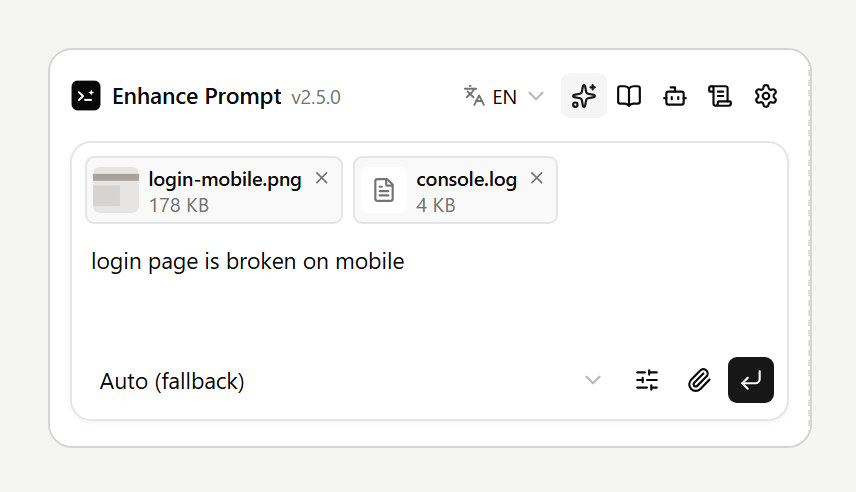
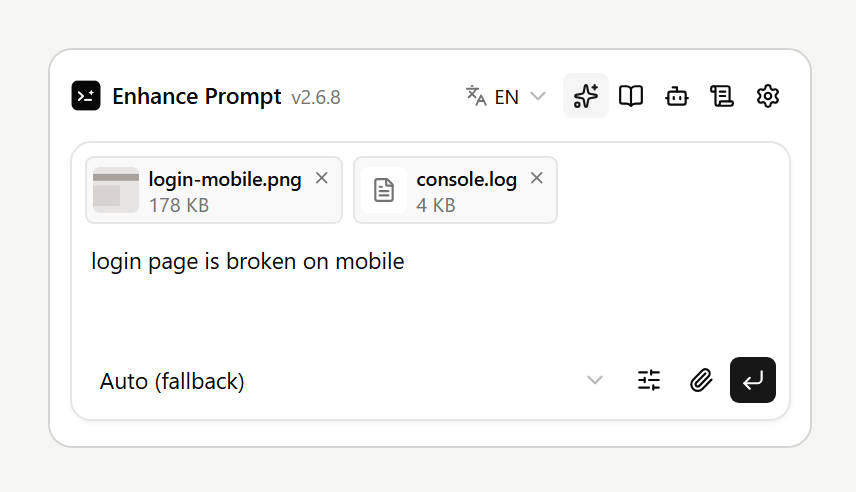
Every picture drawn again from the panel as it is in 2.6.8
The cover, the listing's screenshots, the README's features and the guide's
pictures were from 2.5.0. All 21 are drawn again with
`node scripts/make-listing.mjs`; a second run gives the same files, except
the two taken in the middle of a run.

The listing has four screenshots instead of three: `3-rules.jpg` is new (the
Rules tab next to the access switches) and the languages moved to
`4-languages.jpg`. The manifest lists them, with descriptions of what each
now shows (at most 160 characters, as Orca's validator asks). Nothing Orca
compares for an update's approval changes.

The descriptions of the pictures in the three READMEs and in the guide say
what the new pictures show.

diff --git a/README.md b/README.md
@@ -40,7 +40,7 @@ Write what you want in a sentence. Enhance rewrites it into a prompt with a goal
 
 </td>
 <td width="50%">
-  <a href="docs/getting-started.md"><img src="docs/assets/readme-features/enhance-and-send.jpg" alt="A screenshot and a log attached to a request, and the enhanced prompt with Send" width="100%" /></a>
+  <a href="docs/getting-started.md"><img src="docs/assets/readme-features/enhance-and-send.jpg" alt="A one-line request and the enhanced prompt it became, with the terminal to send it to" width="100%" /></a>
 </td>
 </tr>
 <tr>
@@ -54,7 +54,7 @@ Five context levels, from the prompt alone to your agent rules, stack, git chang
 
 </td>
 <td width="50%">
-  <a href="docs/context-levels.md"><img src="docs/assets/readme-features/project-context.jpg" alt="The options with the context list: workspace, AGENTS.md, stack and commands, a relevant file" width="100%" /></a>
+  <a href="docs/context-levels.md"><img src="docs/assets/readme-features/project-context.jpg" alt="The options: style, context level, output language and structure, then every item of context sent, from the workspace and AGENTS.md to git changes and two relevant files" width="100%" /></a>
 </td>
 </tr>
 <tr>
@@ -68,7 +68,7 @@ Claude Code, Codex and Gemini CLI are detected on your machine and added in one 
 
 </td>
 <td width="50%">
-  <a href="docs/models.md#subscription-clis"><img src="docs/assets/readme-features/subscription.jpg" alt="Use your subscription: Claude Code and Codex CLI added without an API key" width="100%" /></a>
+  <a href="docs/models.md#subscription-clis"><img src="docs/assets/readme-features/subscription.jpg" alt="The Models tab: Claude Code on your subscription, an OpenAI key, and Codex found on this machine, to add without an API key" width="100%" /></a>
 </td>
 </tr>
 <tr>
@@ -82,7 +82,7 @@ Add OpenAI, Anthropic, OpenRouter, Gemini, Groq, DeepSeek, Mistral, Ollama, LM S
 
 </td>
 <td width="50%">
-  <a href="docs/models.md"><img src="docs/assets/readme-features/models-fallback.jpg" alt="The Models section with fallback, in the dark theme" width="100%" /></a>
+  <a href="docs/models.md"><img src="docs/assets/readme-features/models-fallback.jpg" alt="A result in the dark theme that fell back to the next model after the first one failed" width="100%" /></a>
 </td>
 </tr>
 <tr>

diff --git a/docs/readme/README.zh-CN.md b/docs/readme/README.zh-CN.md
@@ -38,7 +38,7 @@
 
 </td>
 <td width="50%">
-  <img src="../assets/readme-features/enhance-and-send.jpg" alt="优化后的提示词与发送、复制、继续优化按钮" width="100%" />
+  <img src="../assets/readme-features/enhance-and-send.jpg" alt="一句话的请求和由它优化出的提示词，以及要发送到的终端" width="100%" />
 </td>
 </tr>
 <tr>
@@ -52,7 +52,7 @@
 
 </td>
 <td width="50%">
-  <img src="../assets/readme-features/project-context.jpg" alt="已用上下文列表" width="100%" />
+  <img src="../assets/readme-features/project-context.jpg" alt="选项：风格、上下文级别、输出语言和结构，以及发送的每一项上下文，从工作区和 AGENTS.md 到 git 更改和两个相关文件" width="100%" />
 </td>
 </tr>
 <tr>
@@ -66,7 +66,7 @@
 
 </td>
 <td width="50%">
-  <img src="../assets/readme-features/subscription.jpg" alt="无需 API key 添加 Claude Code 和 Codex CLI" width="100%" />
+  <img src="../assets/readme-features/subscription.jpg" alt="模型标签页：使用你的订阅的 Claude Code、一个 OpenAI key，以及在本机找到的 Codex，无需 API key 即可添加" width="100%" />
 </td>
 </tr>
 <tr>
@@ -80,7 +80,7 @@ OpenAI、Anthropic、OpenRouter、Gemini、Groq、DeepSeek、Mistral、Ollama、
 
 </td>
 <td width="50%">
-  <img src="../assets/readme-features/models-fallback.jpg" alt="回退设置和自动优化模式" width="100%" />
+  <img src="../assets/readme-features/models-fallback.jpg" alt="深色主题下的一次结果：第一个模型失败后回退到了下一个模型" width="100%" />
 </td>
 </tr>
 <tr>
@@ -108,7 +108,7 @@ OpenAI、Anthropic、OpenRouter、Gemini、Groq、DeepSeek、Mistral、Ollama、
 
 </td>
 <td width="50%">
-  <img src="../assets/readme-features/history.jpg" alt="历史标签" width="100%" />
+  <img src="../assets/readme-features/history.jpg" alt="历史标签页，包含五条用过的提示词" width="100%" />
 </td>
 </tr>
 </table>

diff --git a/docs/user-guide.md b/docs/user-guide.md
@@ -51,7 +51,7 @@ The files are kept on this machine, in a temporary folder that is cleaned after 
 
 ## 3. Follow the progress
 
-![A run at 44%: four steps done, the model writing the prompt](assets/guide/3-progress.png)
+![A run at 43%: four steps done, with what each one found, and Claude Code's sonnet writing the prompt](assets/guide/3-progress.png)
 
 While a prompt is written, the card shows the **total percentage** and every step with its own:
 
@@ -62,7 +62,7 @@ While a prompt is written, the card shows the **total percentage** and every ste
   has run, marked **≈**, and reaches 100% only when the answer arrives;
 - `–` marks a step this run skips (for example git outside a repository).
 
-![Early in a run: reading the project](assets/guide/4-progress-early.png)
+![Early in a run: the workspace and the project are read, git changes are being read](assets/guide/4-progress-early.png)
 
 The square button stops the run; the card keeps the percentage it had reached.
 
@@ -80,7 +80,7 @@ without calling a model). Untick what you do not want; after a run, the list sho
 
 ## 5. Your rules and prompt structures
 
-![The Rules tab with a rule and the two built-in structures](assets/guide/6-rules-and-structures.png)
+![The Rules tab: a rule for every project, a rule for this project only, the two built-in structures and one of your own](assets/guide/6-rules-and-structures.png)
 
 - **Your rules** are followed in every enhanced prompt and by AI auto-enhance, in the project you
   add them in. The switch pauses one.
